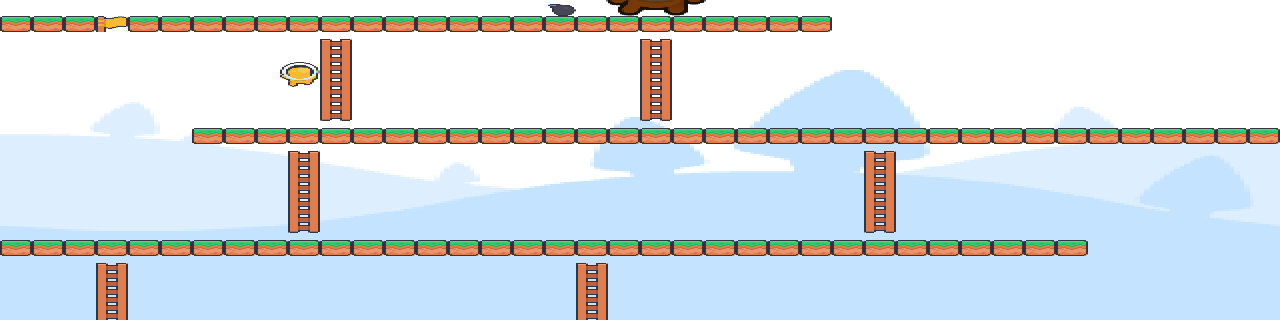
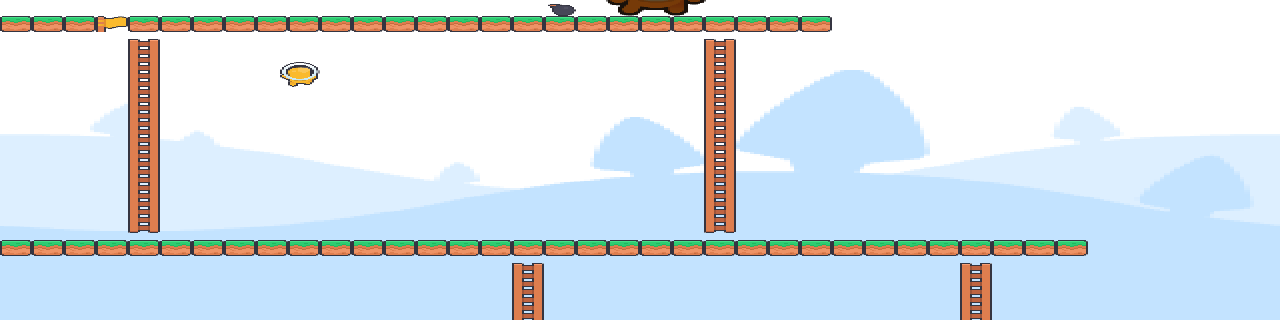
fix: connect ladders to solid platforms and let Kong patrol
Redesign the level so every ladder shaft runs between two solid rows: the
previous map left ladders ending in mid-air (the top platform and mid platform
only overlapped on one side). Ladders now sit at columns 4/22 (top flight) and
16/30 (bottom flight), and the ground row is fully populated. The level test
suite grew from 68 to 140 checks: row-length validation, a no-floating-ladder
scan, and a BFS connectivity check from the spawn to the goal.

Kong now paces his platform left and right, turning at both ends, and barrel
spawns are clamped inside the platform so throws always land on solid ground.

diff --git a/tests/test_level.c b/tests/test_level.c
@@ -1,55 +1,113 @@
 #include "test_util.h"
 #include "level.h"
+#include "physics.h"
 #include "constants.h"
+#include <string.h>
+
+static const int GOAL_COL = 3;
+static const int GOAL_ROW = 6;
+
+static void test_row_lengths(void) {
+    for (int row = 0; row < GRID_ROWS; row++) {
+        const char *r = level_row(row);
+        CHECK(r != NULL);
+        CHECK((int)strlen(r) == GRID_COLS);
+    }
+}
 
 static void test_bounds_safe(void) {
     CHECK(level_tile_at(-1, 0) == '.');
     CHECK(level_tile_at(0, -1) == '.');
     CHECK(level_tile_at(GRID_COLS, 0) == '.');
     CHECK(level_tile_at(0, GRID_ROWS) == '.');
+    CHECK(level_row(-1) == NULL);
+    CHECK(level_row(GRID_ROWS) == NULL);
     CHECK(!level_is_solid(-1, 0));
     CHECK(!level_is_ladder(GRID_COLS, 0));
 }
 
-static void test_ground(void) {
-    CHECK(level_is_solid(0, GRID_ROWS - 1));
-    CHECK(level_is_solid(GRID_COLS - 1, GRID_ROWS - 1));
-    CHECK(level_is_solid(20, GRID_ROWS - 1));
-    CHECK(!level_is_solid(0, GRID_ROWS - 2));
+static void test_platforms(void) {
+    CHECK(level_is_solid(0, 6) && level_is_solid(25, 6));
+    CHECK(!level_is_solid(26, 6));
+    CHECK(level_is_solid(0, 20) && level_is_solid(33, 20));
+    CHECK(!level_is_solid(34, 20));
+    CHECK(level_is_solid(0, 29) && level_is_solid(39, 29));
+    CHECK(level_is_solid(20, 29));
 }
 
 static void test_goal(void) {
-    CHECK(level_is_goal(3, 6));
-    CHECK(!level_is_goal(0, 6));
-    CHECK(level_is_solid(3, 6));
+    CHECK(level_is_goal(GOAL_COL, GOAL_ROW));
+    CHECK(!level_is_goal(0, GOAL_ROW));
+    CHECK(level_is_solid(GOAL_COL, GOAL_ROW));
 }
 
-static void test_ladders(void) {
-    CHECK(level_is_ladder(10, 7));
-    CHECK(level_is_ladder(20, 12));
-    CHECK(!level_is_ladder(10, 6));
-    CHECK(!level_is_ladder(11, 7));
-    CHECK(!level_is_solid(10, 7));
+static void test_ladder_shafts(void) {
+    CHECK(level_is_ladder(4, 7) && level_is_ladder(4, 19));
+    CHECK(level_is_ladder(22, 7) && level_is_ladder(22, 19));
+    CHECK(level_is_ladder(16, 21) && level_is_ladder(16, 27));
+    CHECK(level_is_ladder(30, 21) && level_is_ladder(30, 27));
+    CHECK(!level_is_ladder(4, 6));
+    CHECK(!level_is_ladder(5, 7));
+    CHECK(!level_is_solid(4, 7));
 }
 
-static void test_rect_collision(void) {
-    Rectangle on_ground = { 5.0f * TILE_SIZE, (GRID_ROWS - 1) * TILE_SIZE - 2.0f, 12.0f, 14.0f };
-    CHECK(level_solid_at_rect(on_ground));
+static void test_no_floating_ladders(void) {
+    /* The tile above each ladder top and below each ladder bottom is solid. */
+    for (int col = 0; col < GRID_COLS; col++) {
+        for (int row = 0; row < GRID_ROWS; row++) {
+            if (!level_is_ladder(col, row)) continue;
+            if (!level_is_ladder(col, row - 1)) CHECK(level_is_solid(col, row - 1));
+            if (!level_is_ladder(col, row + 1)) CHECK(level_is_solid(col, row + 1));
+        }
+    }
+}
 
-    Rectangle in_air = { 30.0f * TILE_SIZE, 120.0f, 12.0f, 14.0f };
-    CHECK(!level_solid_at_rect(in_air));
+static bool bfs_reaches_goal(int start_col, int start_row) {
+    static bool seen[GRID_ROWS][GRID_COLS];
+    static int queue[GRID_ROWS * GRID_COLS][2];
+    for (int r = 0; r < GRID_ROWS; r++)
+        for (int c = 0; c < GRID_COLS; c++) seen[r][c] = false;
 
-    Rectangle on_ladder = { 10.0f * TILE_SIZE + 2.0f, 7.0f * TILE_SIZE, 12.0f, 14.0f };
-    CHECK(level_ladder_at_rect(on_ladder));
+    int head = 0, tail = 0;
+    seen[start_row][start_col] = true;
+    queue[tail][0] = start_row;
+    queue[tail][1] = start_col;
+    tail++;
 
-    Rectangle off_ladder = { 12.0f * TILE_SIZE, 7.0f * TILE_SIZE, 12.0f, 14.0f };
-    CHECK(!level_ladder_at_rect(off_ladder));
+    const int dr[4] = { -1, 1, 0, 0 };
+    const int dc[4] = { 0, 0, -1, 1 };
+    while (head < tail) {
+        int r = queue[head][0], c = queue[head][1];
+        head++;
+        if (r == GOAL_ROW && c == GOAL_COL) return true;
+        for (int i = 0; i < 4; i++) {
+            int nr = r + dr[i], nc = c + dc[i];
+            if (nr < 0 || nr >= GRID_ROWS || nc < 0 || nc >= GRID_COLS) continue;
+            if (seen[nr][nc] || level_tile_at(nc, nr) == '.') continue;
+            seen[nr][nc] = true;
+            queue[tail][0] = nr;
+            queue[tail][1] = nc;
+            tail++;
+        }
+    }
+    return false;
+}
+
+static void test_spawn_on_ground(void) {
+    Level level;
+    level_init(&level);
+    int col = physics_tile_col(level.spawn.x, TILE_SIZE);
+    int row = physics_tile_row(level.spawn.y + PLAYER_HEIGHT, TILE_SIZE);
+    CHECK(level_is_solid(col, row));
+    CHECK(bfs_reaches_goal(col, row));
 }
 
 void test_level(void) {
+    test_row_lengths();
     test_bounds_safe();
-    test_ground();
+    test_platforms();
     test_goal();
-    test_ladders();
-    test_rect_collision();
+    test_ladder_shafts();
+    test_no_floating_ladders();
+    test_spawn_on_ground();
 }

diff --git a/src/world/level.c b/src/world/level.c
@@ -1,8 +1,10 @@
 #include "level.h"
 #include "physics.h"
+#include <stddef.h>
 
 /* Level grid. Each row is GRID_COLS chars.
- * '#' platform (solid), 'L' ladder (climbable), 'G' goal, '.' empty. */
+ * '#' platform (solid), 'L' ladder (climbable), 'G' goal, '.' empty.
+ * Every ladder shaft runs between two solid rows so no stair floats. */
 static const char TILES[GRID_ROWS][GRID_COLS + 1] = {
     "........................................",
     "........................................",
@@ -11,37 +13,42 @@ static const char TILES[GRID_ROWS][GRID_COLS + 1] = {
     "........................................",
     "........................................",
     "###G######################..............",
-    "..........L.........L...................",
-    "..........L.........L...................",
-    "..........L.........L...................",
-    "..........L.........L...................",
-    "..........L.........L...................",
-    "..........L.........L...................",
-    "......##################################",
-    ".........L.................L............",
-    ".........L.................L............",
-    ".........L.................L............",
-    ".........L.................L............",
-    ".........L.................L............",
-    ".........L.................L............",
+    "....L.................L.................",
+    "....L.................L.................",
+    "....L.................L.................",
+    "....L.................L.................",
+    "....L.................L.................",
+    "....L.................L.................",
+    "....L.................L.................",
+    "....L.................L.................",
+    "....L.................L.................",
+    "....L.................L.................",
+    "....L.................L.................",
+    "....L.................L.................",
+    "....L.................L.................",
     "##################################......",
-    "...L..............L.....................",
-    "...L..............L.....................",
-    "...L..............L.....................",
-    "...L..............L.....................",
-    "...L..............L.....................",
-    "...L..............L.....................",
-    "...L..............L.....................",
-    "...L..............L.....................",
+    "................L.............L.........",
+    "................L.............L.........",
+    "................L.............L.........",
+    "................L.............L.........",
+    "................L.............L.........",
+    "................L.............L.........",
+    "................L.............L.........",
+    "########################################",
     "########################################",
 };
 
-static const Vector2 SPAWN = { 5.0f * TILE_SIZE, (GRID_ROWS - 1) * TILE_SIZE - PLAYER_HEIGHT };
+static const Vector2 SPAWN = { 5.0f * TILE_SIZE, (GRID_ROWS - 2) * TILE_SIZE - PLAYER_HEIGHT };
 static const Vector2 GOAL = { 3.0f * TILE_SIZE, 6.0f * TILE_SIZE };
 
 char level_tile_at(int col, int row) {
     if (col < 0 || col >= GRID_COLS || row < 0 || row >= GRID_ROWS) return '.';
     return TILES[row][col];
+}
+
+const char *level_row(int row) {
+    if (row < 0 || row >= GRID_ROWS) return NULL;
+    return TILES[row];
 }
 
 void level_init(Level *level) {

diff --git a/src/core/game_barrels.c b/src/core/game_barrels.c
@@ -5,10 +5,13 @@
 void game_spawn_barrel(Game *g) {
     for (int i = 0; i < MAX_BARRELS; i++) {
         if (!g->barrels[i].active) {
-            /* Barrels leave Kong's front hand at platform level, rolling in
-             * the direction toggled for this throw. */
-            Vector2 pos = { g->kong.rect.x - BARREL_SIZE,
-                            KONG_PLATFORM_ROW * TILE_SIZE - BARREL_SIZE };
+            /* Barrels leave Kong's front hand at platform level, kept inside
+             * the platform bounds so they always land on solid ground. */
+            float px = g->kong.throw_left ? g->kong.rect.x - BARREL_SIZE
+                                          : g->kong.rect.x + KONG_WIDTH;
+            if (px < 0.0f) px = 0.0f;
+            if (px > KONG_PLATFORM_RIGHT - BARREL_SIZE) px = KONG_PLATFORM_RIGHT - BARREL_SIZE;
+            Vector2 pos = { px, KONG_PLATFORM_ROW * TILE_SIZE - BARREL_SIZE };
             float speed = g->diff.barrel_speed * (g->kong.throw_left ? -1.0f : 1.0f);
             barrel_spawn(&g->barrels[i], pos, speed);
             g->kong.throw_left = !g->kong.throw_left;

diff --git a/src/entities/kong.c b/src/entities/kong.c
@@ -9,9 +9,21 @@ void kong_init(Kong *k) {
     k->throw_timer = 1.0f;
     k->throw_left = true;
     k->anim_timer = 0.0f;
+    k->patrol_dir = -1.0f;
 }
 
 void kong_update(Kong *k, float dt) {
     k->throw_timer -= dt;
     k->anim_timer += dt;
+
+    /* Pace the platform, turning around at both ends. */
+    k->rect.x += KONG_SPEED * k->patrol_dir * dt;
+    if (k->rect.x <= 0.0f) {
+        k->rect.x = 0.0f;
+        k->patrol_dir = 1.0f;
+    }
+    if (k->rect.x >= KONG_PLATFORM_RIGHT - KONG_WIDTH) {
+        k->rect.x = KONG_PLATFORM_RIGHT - KONG_WIDTH;
+        k->patrol_dir = -1.0f;
+    }
 }

diff --git a/src/config/constants.h b/src/config/constants.h
@@ -23,9 +23,11 @@
 
 /* The barrel-throwing boss stands at the right end of the top platform. */
 #define KONG_PLATFORM_ROW 6
+#define KONG_PLATFORM_RIGHT (26 * TILE_SIZE) /* platform spans cols 0-25 */
 #define KONG_X_TILE 18
 #define KONG_WIDTH 80
 #define KONG_HEIGHT 80
+#define KONG_SPEED 40.0f
 
 /* Difficulty ramp: barrels get faster and more frequent as the score grows. */
 #define DIFFICULTY_START_SPEED 70.0f

diff --git a/src/entities/kong.h b/src/entities/kong.h
@@ -10,6 +10,7 @@ typedef struct Kong {
     float throw_timer;  /* seconds until the next barrel throw */
     bool throw_left;    /* throw direction, alternated each throw */
     float anim_timer;   /* accumulated time, drives the barrel bob */
+    float patrol_dir;   /* -1 or +1, Kong's walking direction */
 } Kong;
 
 /* Place Kong on the top platform and arm the first throw. */

diff --git a/src/world/level.h b/src/world/level.h
@@ -17,6 +17,9 @@ void level_init(Level *level);
 /* Character at a grid tile; '.' for anything outside the grid. */
 char level_tile_at(int col, int row);
 
+/* Raw grid row string (GRID_COLS chars) for layout validation; NULL if OOB. */
+const char *level_row(int row);
+
 /* True if the tile is solid (platform '#' or goal 'G'). */
 bool level_is_solid(int col, int row);
 

diff --git a/src/entities/kong_draw.c b/src/entities/kong_draw.c
@@ -16,5 +16,6 @@ void kong_draw(const Kong *k, const Assets *a) {
     if (k->throw_timer < 0.3f) bob += 10.0f * (1.0f - k->throw_timer / 0.3f);
     float bs = (float)BARREL_SIZE / (float)a->bomb.width;
     Vector2 bp = { k->rect.x - 12.0f, k->rect.y + 14.0f + bob };
+    if (bp.x < 0.0f) bp.x = 0.0f;
     DrawTextureEx(a->bomb, bp, 0.0f, bs, WHITE);
 }
